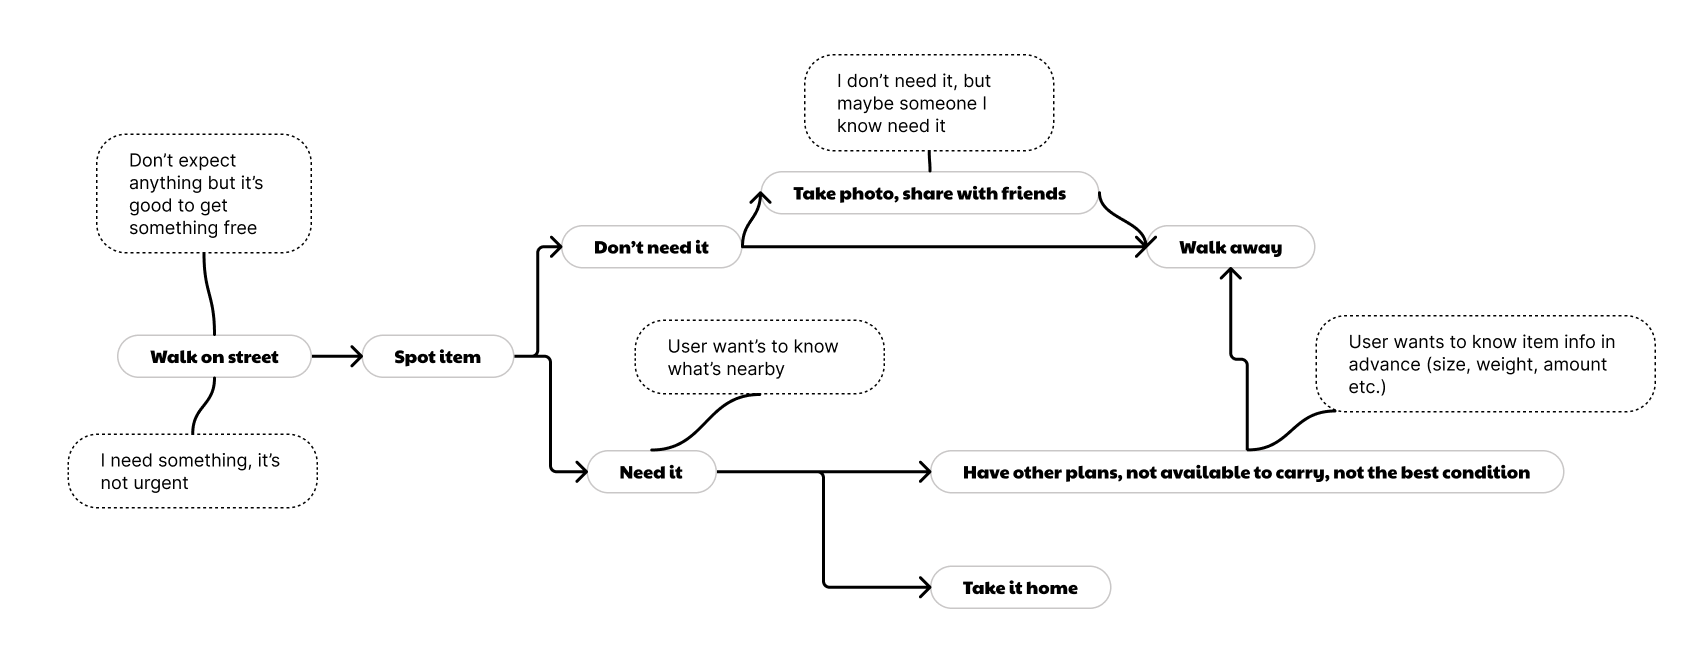
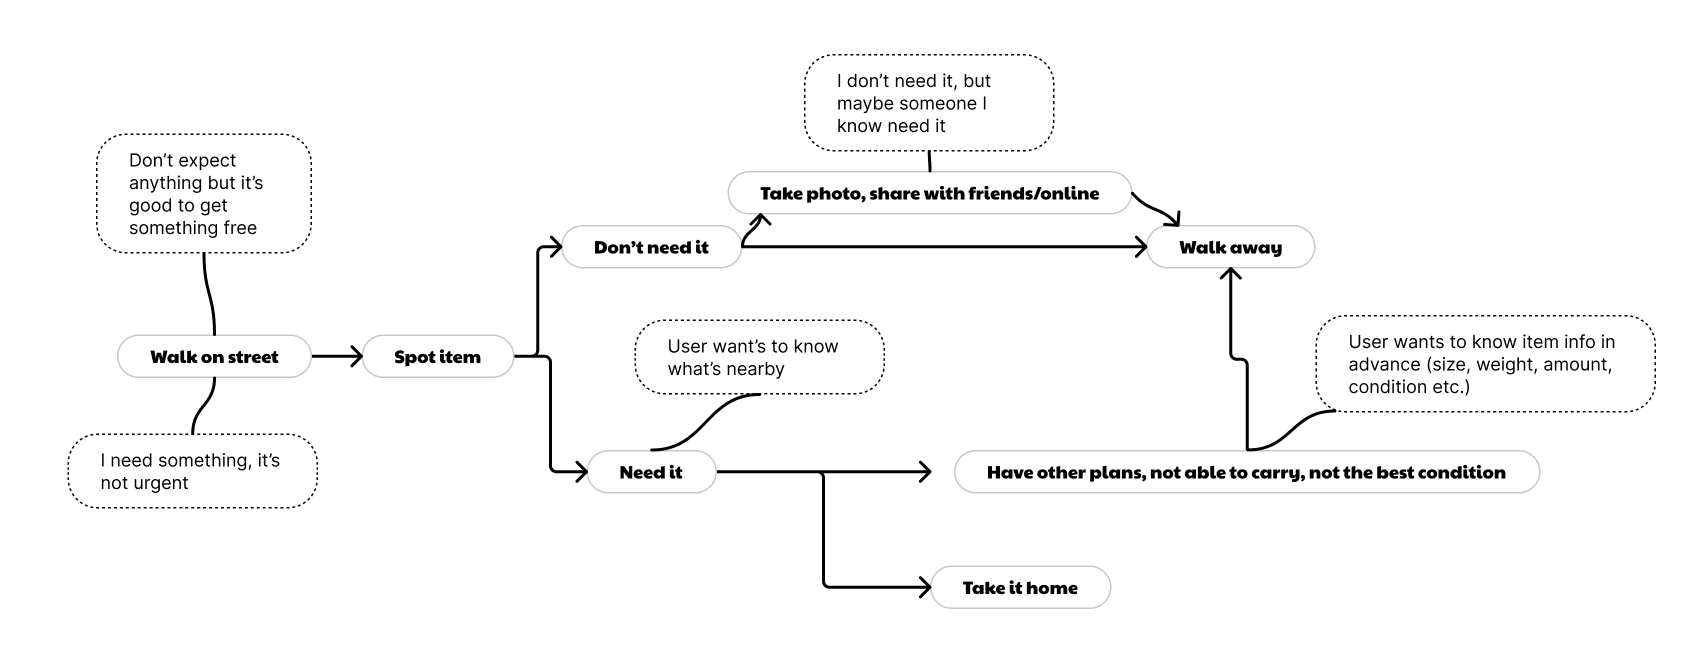
update user journey image, update content

Changed region(s): [[0.4349, 0.2715, 0.6835, 0.362], [0.5592, 0.6938, 0.9009, 0.724], [0.7767, 0.5732, 0.8699, 0.6033]]

diff --git a/ux.html b/ux.html
@@ -66,8 +66,17 @@
   </div>
 
   <div class="ux-row">
-    <p class="ux-left">My role </p>
+    <p class="ux-left">My role</p>
     <p class="ux-right">Designer, user researcher, developer</p>
+  </div>
+
+  <div class="ux-row">
+    <p class="ux-left">Tools</p>
+    <ol class="ux-right">
+      <li>Research & Testing: Semi-structured interviews, in-person usability testing</li>
+      <li>Design: Figma (wireframes, prototypes, design system)</li>
+      <li>Development: React Native, Expo</li>
+    </ol>
   </div>
 </div>
 <img src="./assets/meadows.jpeg" alt="Stooping Project Main Mockup" class="project-banner"/>
@@ -88,7 +97,7 @@
     
   <p class="ux-title">01. User Research & Analysis</p>
   <p class="ux-text">I conducted semi-structured interviews to understand participants' past experiences with existing sharing methods. Through targeted questions about their use of Facebook groups and street discoveries, I identified key pain points including difficulty with local discovery and uncertain item availability.</p>
-  <p class="ux-text">The research revealed two pain point journeys: one is based on user experience on existing online platforms (Facebook groups), and another one is based on street finds. Understanding both digital and physical contexts was crucial to designing a comprehensive solution that addressed the full user experience.</p>
+  <p class="ux-text">The research revealed two distinct pain point journeys: one is based on user experience on existing online platforms (Facebook groups), and another one is based on street finds. Understanding both digital and physical contexts was crucial to designing a comprehensive solution that addressed the full user experience.</p>
 <div class="ux-row">
     <p class="ux-left">User Insight</p>
       <ol class="ux-right">
@@ -128,8 +137,15 @@
     <img src="./assets/user_flow.png" alt="User Flow" class="project-banner"/>
     <p class="img-text">Basic User Flow</p>
     <p class="project-text">
-      
     </p>
+  </div>
+  <div class="ux-row">
+    <p class="ux-left">Design Solutions</p>
+<ol class="ux-right">
+  <li>Dual navigation (Map + List views): Addresses different user preferences, some users prefer spatial exploration, others want quick scanning.</li>
+  <li>Status tracking system: Real-time updates reduce wasted trips and manage availability uncertainty.</li>
+  <li>Streamlined posting flow: Minimise friction for users contributing items, encouraging community participation</li>
+</ol>
   </div>
 
   <div class="ux-section">
@@ -164,7 +180,7 @@
     <p class="ux-text">
       I wrote test script and prepared some task-based scenarios to let users to complete with using the high-fidelity prototype. During the process, I identified usability issues and pain points, validated some of my assumptions, then iterated on the design to improve user experience based on testing insights. 
     </p>
-    <p class="ux-text">Another thing that I need to point out is, all the usability testing was conducted in person, it allows me to observe user's behaviour so much better and I can follow up any hesitation that I noticed.</p>
+    <p class="ux-text">All sessions were conducted in person, allowing me to observe user behaviour closely and follow up on any hesitation or confusion in real-time.</p>
     <div class="ux-row">
       <p class="ux-left">Insights</p>
         <ol class="ux-right">
@@ -187,7 +203,10 @@
 
   <div class="ux-section">
     <p class="ux-title">04. Learning and Next</p>
-    <p class="ux-text">Usability testing revealed two key insights: 1. difficulty tracking item status, and 2. challenges with partial item collection, I then updated the Favourite feature to help user save and track item status, next I plan to launch the MVP while conducting additional research and collecting feedback from real user addressing the partial collection feature.</p>
+    <p class="ux-text">Usability testing revealed two key insights: 1. difficulty tracking item status, and 2. challenges with partial item collection, I then updated the Favourite feature to help user save and track item status.
+    </p>
+    <p class="ux-text">The partial collection challenge proved more complex as it would increase the user flow complexity, rather than assuming a solution, I plan to launch the MVP and collect feedback from real users and then conduct another round of usability testing. This approach ensures any design iteration is based on actual user behaviour and validated needs rather than assumptions.
+    </p>
     <p class="ux-text">I'm developing an MVP using React Native and Expo that focuses on core features identified in research. I learned to be comfortable sharing work early and iterating based on user feedback.</p>
   </div>
     <div class="ux-section">
